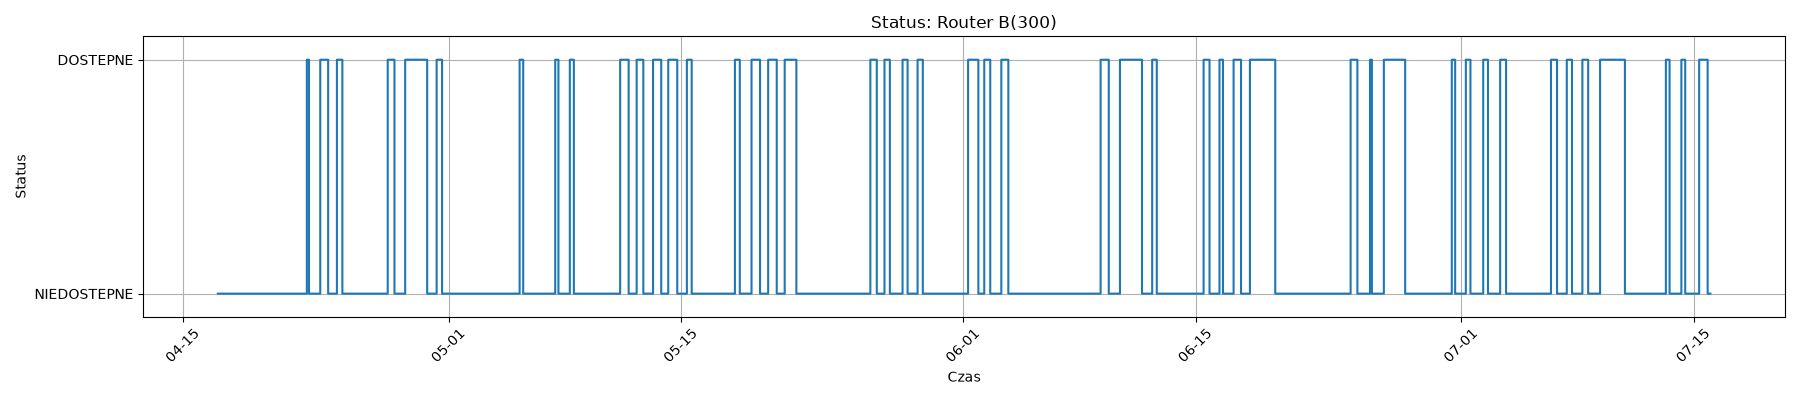
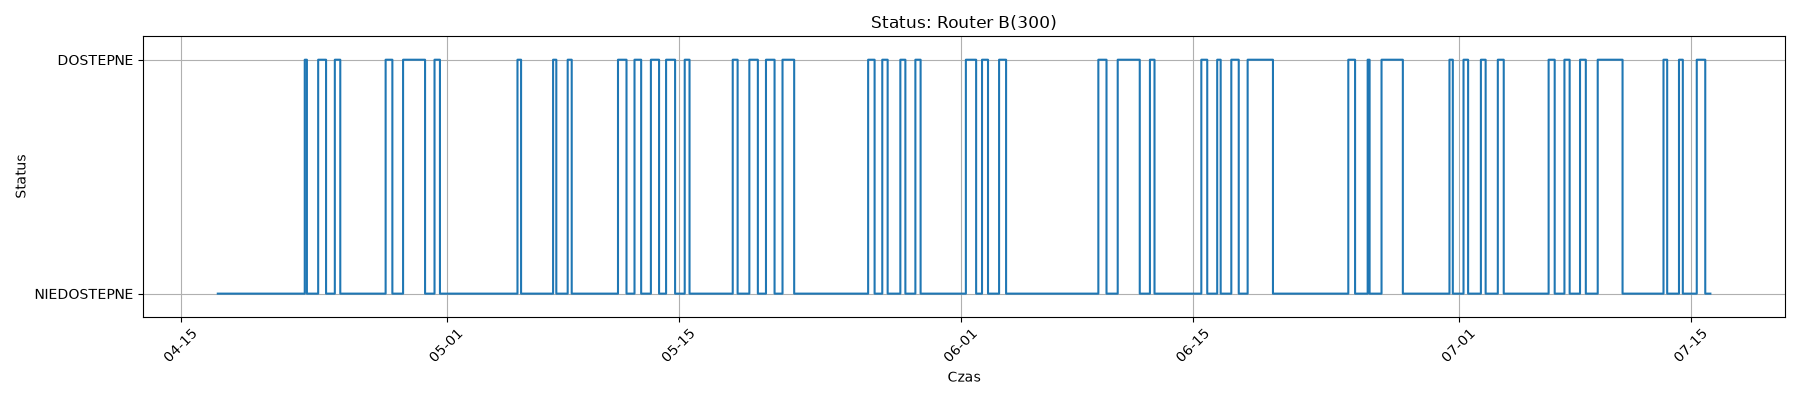
Automatyczna aktualizacja monitoringu

diff --git a/index.html b/index.html
@@ -33,5 +33,5 @@ img { border: 1px solid #ccc; border-radius: 8px; }
                 <div>Router B(300)</div>
                 <img src="chart_Router B(300).png" alt="Router B(300)" style="max-width:600px; margin-top:10px;">
             </div>
-            <p>Ostatnia zmiana: 2026-07-16 00:12:49</p>
+            <p>Ostatnia zmiana: 2026-07-16 03:40:00</p>
 </body></html>